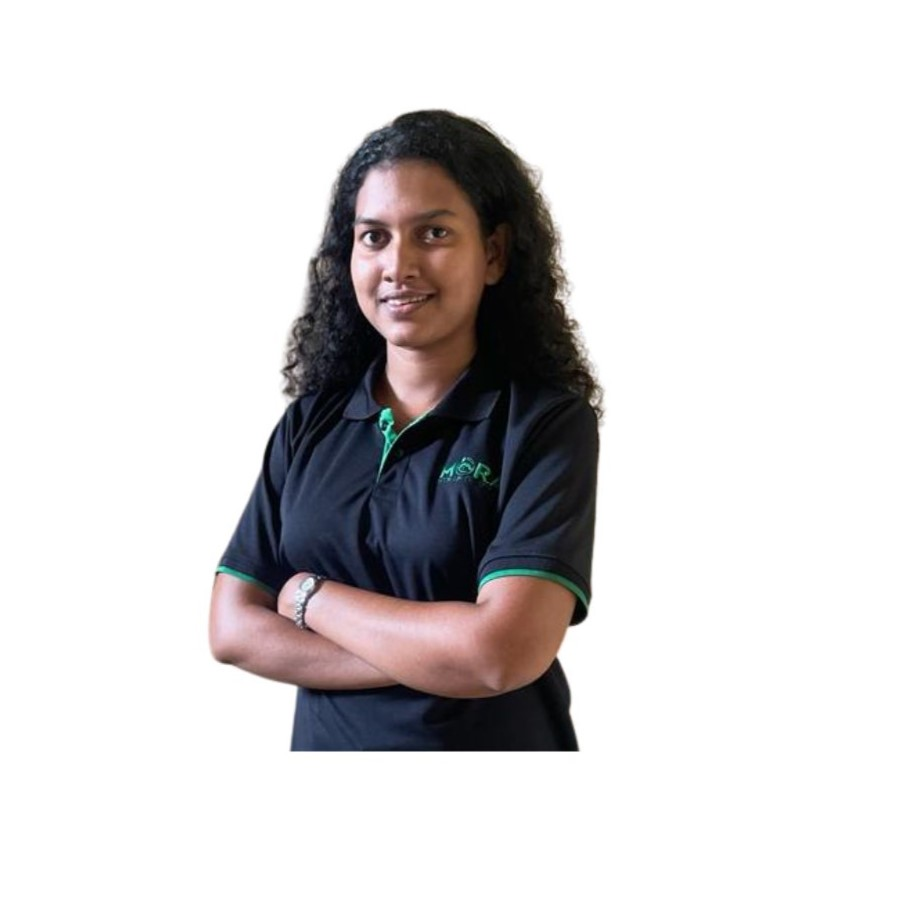
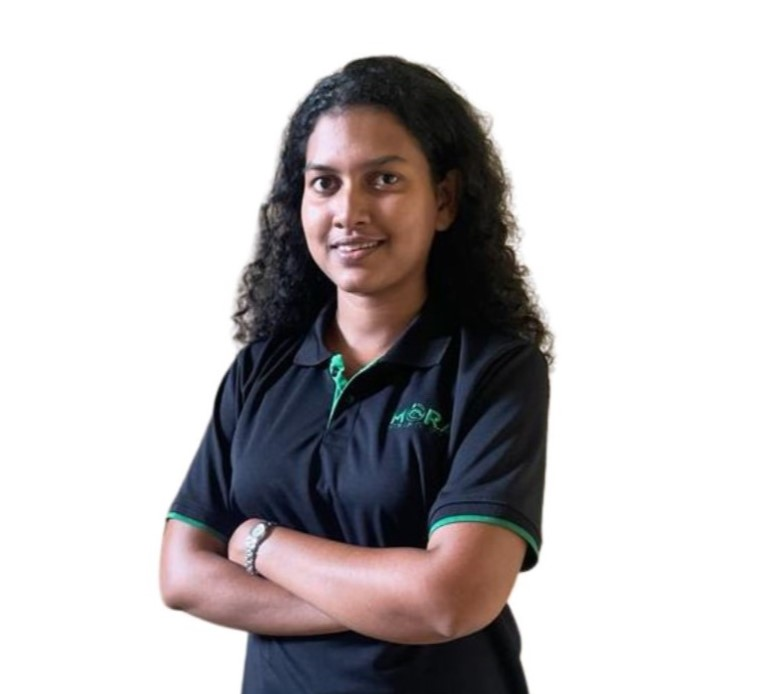
Media committee updated

diff --git a/resources/views/commitee.blade.php b/resources/views/commitee.blade.php
@@ -56,10 +56,10 @@
                     </div>
                 </div>
                 <div class="row top-padding scroll-commitee"  data-entrance="from-bottom">
-                    @include('layouts.round-card', [ 'role' => 'Assistant Secratary' , 'name' => 'Aditha Pathiraja' , 'image' => asset('images/commitee/2022/Aditha Pathiraja.jpg') , 'email' => '#' , 'fbusername' => '', 'colnum' => ' col-xs-2'])
                     @include('layouts.round-card', [ 'role' => 'Senior Editor' , 'name' => 'Uditha Herath' , 'image' => asset('images/commitee/2023/EDITORIAL/Uditha Herath.jpg') , 'email' => 'virajwijesooriya99@gmail.com' , 'fbusername' => '' , 'colnum' => ' col-xs-2'])
-                    @include('layouts.round-card', [ 'role' => 'Junior editor' , 'name' => 'uditha herath' , 'image' => asset('images/commitee/2022/uditha herath.jpg') , 'email' => 'udithaherath97@gmail.com' , 'fbusername' => '' , 'colnum' => ' col-xs-2'])
-                    @include('layouts.round-card', [ 'role' => 'Junior editor' , 'name' => 'Chanuri Abhimani' , 'image' => asset('images/commitee/2022/Chanuri Abhimani.jpg') , 'email' => 'chanuriabhimani123@gmail.com' , 'fbusername' => '' , 'colnum' => ' col-xs-2'])
+                    @include('layouts.round-card', [ 'role' => 'Junior editor' , 'name' => 'Geethma Prasadi' , 'image' => asset('images/commitee/2023/EDITORIAL/Geethma Prasadi.jpg') , 'email' => '#' , 'fbusername' => '', 'colnum' => ' col-xs-2'])
+                    @include('layouts.round-card', [ 'role' => 'Junior editor' , 'name' => 'Navini Subodhani' , 'image' => asset('images/commitee/2023/EDITORIAL/Navini Subodhani.jpg') , 'email' => '#' , 'fbusername' => '' , 'colnum' => ' col-xs-2'])
+                    @include('layouts.round-card', [ 'role' => 'Junior editor' , 'name' => 'Jayabhawan Thevamanohara' , 'image' => asset('images/commitee/2023/EDITORIAL/Jayabhawan Thevamanohara.jpg') , 'email' => 'chanuriabhimani123@gmail.com' , 'fbusername' => '' , 'colnum' => ' col-xs-2'])
                 </div>
             </section>
 
@@ -117,14 +117,14 @@
                     @include('layouts.round-card', [ 'role' => 'Senior Commitee Member' ,'name' => 'Thilina Mendis' , 'image' => asset('images/commitee/2022/Thilina Mendis.jpg') , 'email' => '#' , 'fbusername' => '' , 'colnum' => '-md-4'])
                 </div>
                 <div class="row top-padding scroll-commitee" data-entrance="from-bottom">
-                    @include('layouts.round-card', [ 'role' => 'Commitee Member' , 'name' => 'Himanga Nimesh' , 'image' => asset('images/commitee/2022/Himanga Nimesh.jpg') , 'email' => 'himanganimesh@gmail.com' , 'fbusername' => '' , 'colnum' => ' col-xs-2'])
-                    @include('layouts.round-card', [ 'role' => 'Commitee Member' , 'name' => 'pubudu dissanayake' , 'image' => asset('images/commitee/2022/pubudu dissanayake.png') , 'email' => 'pubs98me@gmail.com' , 'fbusername' => '' , 'colnum' => ' col-xs-2'])
-                    @include('layouts.round-card', [ 'role' => 'Commitee Member' , 'name' => 'kavindu deshan' , 'image' => asset('images/commitee/2022/kavindu deshan.jpg') , 'email' => '#' , 'fbusername' => '' , 'colnum' => ' col-xs-2'])
+                    @include('layouts.round-card', [ 'role' => 'Commitee Member' , 'name' => 'Arunan Pandiyan' , 'image' => asset('images/commitee/2023/MEDIA/Arunan Pandiyan.jpg') , 'email' => '#' , 'fbusername' => '' , 'colnum' => ' col-xs-2'])
+                    @include('layouts.round-card', [ 'role' => 'Commitee Member' , 'name' => 'Hasindu Rajapaksha' , 'image' => asset('images/commitee/2023/MEDIA/Hasindu Rajapaksha.jpg') , 'email' => '#' , 'fbusername' => '' , 'colnum' => ' col-xs-2'])
+                    @include('layouts.round-card', [ 'role' => 'Commitee Member' , 'name' => 'Nisal Rajapaksha' , 'image' => asset('images/commitee/2023/MEDIA/Nisal Rajapaksha.jpg') , 'email' => '#' , 'fbusername' => '' , 'colnum' => ' col-xs-2'])
                 </div>
                 <div class="row top-padding scroll-commitee" data-entrance="from-bottom">
-                    @include('layouts.round-card', [ 'role' => 'Commitee Member' , 'name' => 'Sasmitha Rathnaweera' , 'image' => asset('images/commitee/2022/Sasmitha Rathnaweera.jpeg') , 'email' => 'sasmitharathnaweera@gmail.com' , 'fbusername' => '' , 'colnum' => ' col-xs-2'])
-                    @include('layouts.round-card', [ 'role' => 'Commitee Member' , 'name' => 'Ashan Subodha' , 'image' => asset('images/commitee/2022/subodha.jpg') , 'email' => 'subodha162@gmail.com' , 'fbusername' => '' , 'colnum' => ' col-xs-2'])
-                    @include('layouts.round-card', [ 'role' => 'Commitee Member' , 'name' => 'Sanggavi Thomas' , 'image' => asset('images/commitee/2022/Sanggavi Thomas.jpeg') , 'email' => 'sanggavithomas512@gmail.com' , 'fbusername' => '' , 'colnum' => ' col-xs-2'])  
+                    @include('layouts.round-card', [ 'role' => 'Commitee Member' , 'name' => 'Kanagaratnam Mathushanth' , 'image' => asset('images/commitee/2023/MEDIA/Kanagaratnam Mathushanth.jpg') , 'email' => '#' , 'fbusername' => '' , 'colnum' => ' col-xs-2'])
+                    @include('layouts.round-card', [ 'role' => 'Commitee Member' , 'name' => 'Jayamadu Gammune' , 'image' => asset('images/commitee/2023/MEDIA/Jayamadu Gammune.jpg') , 'email' => 'subodha162@gmail.com' , 'fbusername' => '' , 'colnum' => ' col-xs-2'])
+                    @include('layouts.round-card', [ 'role' => 'Commitee Member' , 'name' => 'Imesh Lakshan' , 'image' => asset('images/commitee/2023/MEDIA/Imesh Lakshan.jpg') , 'email' => 'sanggavithomas512@gmail.com' , 'fbusername' => '' , 'colnum' => ' col-xs-2'])  
                 </div>
             </section>
 
@@ -141,11 +141,11 @@
                     
                 </div>
                 <div class="row top-padding scroll-commitee" data-entrance="from-bottom">
-                    @include('layouts.round-card', [ 'role' => 'Commitee Member' , 'name' => 'Jayani Kaushalya' , 'image' => asset('images/commitee/2022/jayani kaushalya.jpg') , 'email' => 'jayani.18@itfac.mrt.ac.lk' , 'fbusername' => '' , 'colnum' => ' col-xs-2'])
-                    @include('layouts.round-card', [ 'role' => 'Commitee Member' , 'name' => 'Harshana Wijesekara' , 'image' => asset('images/commitee/2022/harshana.png') , 'email' => 'harshanawijesekara727@gmail.com' , 'fbusername' => '' , 'colnum' => ' col-xs-2'])
-                    @include('layouts.round-card', [ 'role' => 'Commitee Member' , 'name' => 'Manjitha Senanayake' , 'image' => asset('images/commitee/2022/Manjitha Senanayake.jpg') , 'email' => 'manjithasenanayake@gmail.com' , 'fbusername' => '' , 'colnum' => ' col-xs-2'])
-                    @include('layouts.round-card', [ 'role' => 'Commitee Member' , 'name' => 'Pramodya Kulathunga' , 'image' => asset('images/commitee/2022/Pramodya Kulathunga.JPG') , 'email' => 'kpramodya1997@gmail.com' , 'fbusername' => '' , 'colnum' => ' col-xs-2'])
-                    @include('layouts.round-card', [ 'role' => 'Commitee Member' , 'name' => 'Chathurika Wijesooriya' , 'image' => asset('images/commitee/2022/Chathurika Wijesooriya.jpg') , 'email' => 'chathurika.18@itfac.mrt.ac.lk' , 'fbusername' => '' , 'colnum' => ' col-xs-2'])
+                    @include('layouts.round-card', [ 'role' => 'Commitee Member' , 'name' => 'Dasuni Githmee' , 'image' => asset('images/commitee/2023/HEALTH/Dasuni Githmee.jpg') , 'email' => '#' , 'fbusername' => '' , 'colnum' => ' col-xs-2'])
+                    @include('layouts.round-card', [ 'role' => 'Commitee Member' , 'name' => 'Sandaru Lokudadalla' , 'image' => asset('images/commitee/2023/HEALTH/Sandaru Lokudadalla.jpg') , 'email' => '#' , 'fbusername' => '' , 'colnum' => ' col-xs-2'])
+                    @include('layouts.round-card', [ 'role' => 'Commitee Member' , 'name' => 'Sandaruwan Gangodawilage' , 'image' => asset('images/commitee/2023/HEALTH/Sandaruwan Gangodawilage.jpg') , 'email' => '#' , 'fbusername' => '' , 'colnum' => ' col-xs-2'])
+                    @include('layouts.round-card', [ 'role' => 'Commitee Member' , 'name' => 'Sathyami Disanayaka' , 'image' => asset('images/commitee/2023/HEALTH/Sathyami Disanayaka.jpg') , 'email' => '#' , 'fbusername' => '' , 'colnum' => ' col-xs-2'])
+                    @include('layouts.round-card', [ 'role' => 'Commitee Member' , 'name' => 'Vithakshana Siriwardhna' , 'image' => asset('images/commitee/2023/HEALTH/Vithakshana Siriwardhna.jpg') , 'email' => '#' , 'fbusername' => '' , 'colnum' => ' col-xs-2'])
                 </div>
             </section>
 
